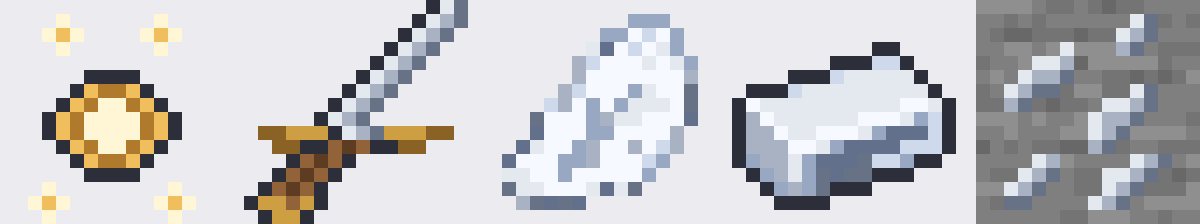
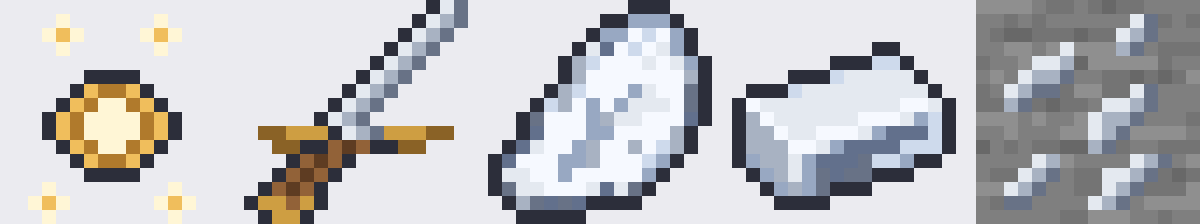
Rohsilber bekommt seinen Umriss
Fynns zweite Fassung. Der Klumpen selbst ist Pixel fuer Pixel derselbe, nur
die Kante kam dazu - ohne sie war er der einzige Gegenstand ohne Umriss und
fiel neben den uebrigen aus der Reihe.

Claude-Session: https://claude.ai/code/session_01Pu8TgKbD1sTWJzuFDLqhjW

diff --git a/minecraft-addon/werkzeuge/pixelschmiede.html b/minecraft-addon/werkzeuge/pixelschmiede.html
@@ -977,22 +977,22 @@
       "oooooouupppoouoo"
     ],
     rohsilber: [
-      "................",
-      "..........xxx...",
-      "........xxzyzx..",
-      ".......wvzyzwx..",
-      "......syzzzwzwx.",
-      "......szzzzzzzs.",
-      ".....syzzzxwzzd.",
-      "....yszxzxwwwzd.",
-      "...dzzzxswwzzzv.",
-      "...vzzzxxzzzzs..",
-      "..vwzzxszzszys..",
-      ".vzzzxxszzzyx...",
-      ".wwzzxzzzzzx....",
-      ".dwwzzzwvwd.....",
-      "..sdvdv.........",
-      "................"
+      "..........kkk...",
+      "........kkxxxk..",
+      ".......kxxzyzxk.",
+      "......kwvzyzwxk.",
+      ".....ksyzzzwzwxk",
+      ".....kszzzzzzzsk",
+      "....ksyzzzxwzzdk",
+      "...kyszxzxwwwzdk",
+      "..kdzzzxswwzzzvk",
+      "..kvzzzxxzzzzsk.",
+      ".kvwzzxszzszysk.",
+      "kvzzzxxszzzyxk..",
+      "kwwzzxzzzzzxk...",
+      "kdwwzzzwvwdk....",
+      ".ksdvdvkkkk.....",
+      "..kkkkk........."
     ],
     silberbarren: [
       "................",

diff --git a/minecraft-addon/werkzeuge/texturen_erzeugen.py b/minecraft-addon/werkzeuge/texturen_erzeugen.py
@@ -83,25 +83,26 @@ STERNENKLINGE = [
 
 
 # Rohsilber, wie es aus dem Fels faellt: ein Klumpen, kein Barren. Gemalt von
-# Fynn in der Pixelschmiede. Bewusst ohne schwarzen Umriss - der Brocken hat
-# stattdessen dunklere Randpixel, so wie Minecrafts eigenes Roheisen.
+# Fynn in der Pixelschmiede. Der Umriss kam in der zweiten Fassung dazu - ohne
+# ihn war der Klumpen der einzige Gegenstand ohne Kante und fiel neben den
+# uebrigen aus der Reihe. Der Klumpen selbst ist Pixel fuer Pixel derselbe.
 ROHSILBER = [
-    "................",
-    "..........xxx...",
-    "........xxzyzx..",
-    ".......wvzyzwx..",
-    "......syzzzwzwx.",
-    "......szzzzzzzs.",
-    ".....syzzzxwzzd.",
-    "....yszxzxwwwzd.",
-    "...dzzzxswwzzzv.",
-    "...vzzzxxzzzzs..",
-    "..vwzzxszzszys..",
-    ".vzzzxxszzzyx...",
-    ".wwzzxzzzzzx....",
-    ".dwwzzzwvwd.....",
-    "..sdvdv.........",
-    "................",
+    "..........kkk...",
+    "........kkxxxk..",
+    ".......kxxzyzxk.",
+    "......kwvzyzwxk.",
+    ".....ksyzzzwzwxk",
+    ".....kszzzzzzzsk",
+    "....ksyzzzxwzzdk",
+    "...kyszxzxwwwzdk",
+    "..kdzzzxswwzzzvk",
+    "..kvzzzxxzzzzsk.",
+    ".kvwzzxszzszysk.",
+    "kvzzzxxszzzyxk..",
+    "kwwzzxzzzzzxk...",
+    "kdwwzzzwvwdk....",
+    ".ksdvdvkkkk.....",
+    "..kkkkk.........",
 ]
 
 
